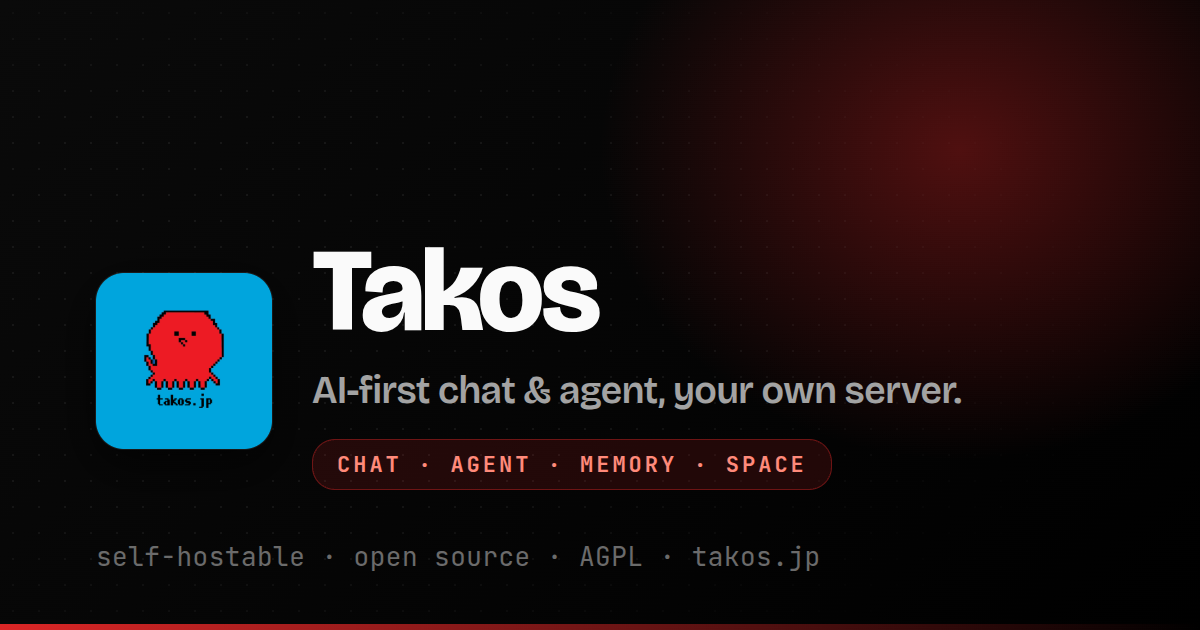
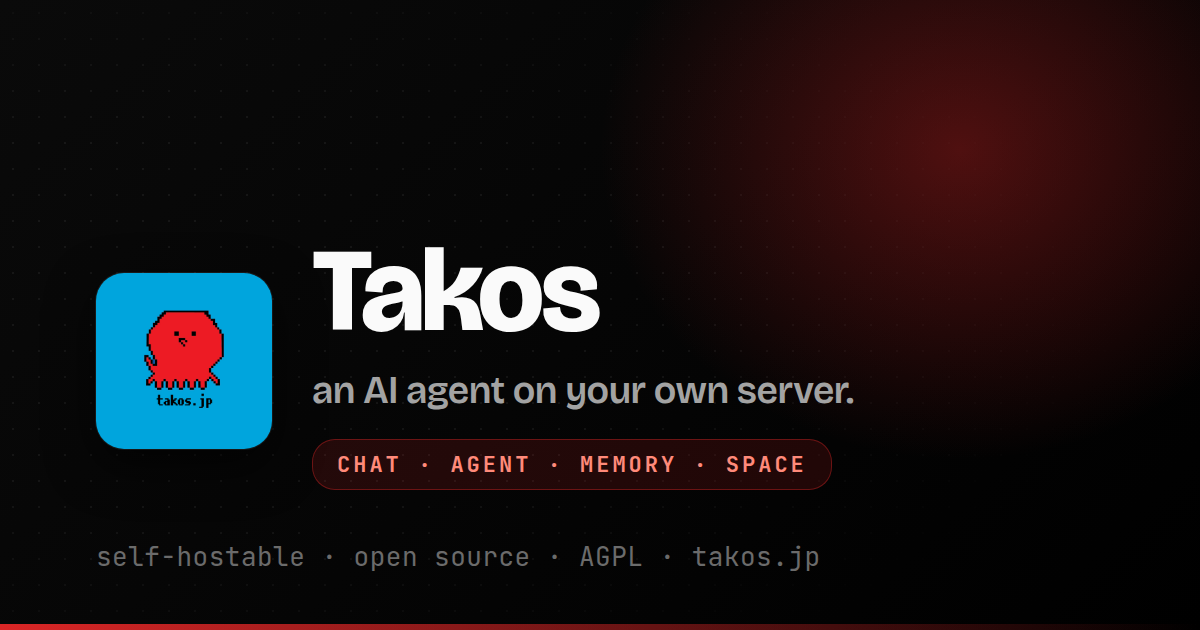
website: replace slogan titles with a factual descriptor, drop 'AI-first' from the og card

Changed region(s): [[0.2467, 0.6032, 0.8017, 0.6635]]

diff --git a/website/src/content/site.ts b/website/src/content/site.ts
@@ -142,10 +142,10 @@ export interface Strings {
 const ja: Strings = {
   htmlLang: "ja",
   meta: {
-    title: "Takos — 自分のサーバーで動く AI agent",
+    title: "Takos | an AI agent on your own server",
     description:
       "Takos は self-hostable な AI-first chat & agent product。chat / agent / memory / Git / Workspace / app launcher / MCP tools を core に持ち、office (docs / slide / sheet) / computer / social などの installable apps を選んで追加できる。OpenTofu module + Worker artifact で self-host できる AGPL の OSS。",
-    ogTitle: "Takos — AI-first chat & agent, your own server.",
+    ogTitle: "Takos | an AI agent on your own server",
     ogDescription:
       "Self-hostable な AI-first chat & agent。history も memory も自分のサーバーの中。OpenTofu module + Worker artifact で self-host。AGPL の OSS。",
   },
@@ -160,7 +160,7 @@ const ja: Strings = {
     closeMenu: "メニューを閉じる",
   },
   hero: {
-    title: [{ t: "自分のサーバーの" }, { t: "AI agent", grad: true }],
+    title: [{ t: "AI agent," }, { t: "on your server", grad: true }],
     lede: [
       {
         t: "chat で頼むと agent が tool を呼んで仕事を進め、成果とやり取りが memory に残る。その全部を、",
@@ -364,10 +364,10 @@ const ja: Strings = {
 const en: Strings = {
   htmlLang: "en",
   meta: {
-    title: "Takos — an AI agent on your own server.",
+    title: "Takos | an AI agent on your own server",
     description:
       "Takos is a self-hostable, AI-first chat & agent product. Its core is chat / agent / memory / Workspace, and installable apps like office (docs / slide / sheet), computer, and social can be added when you need them. It runs on Takosumi, so you can install it on your own substrate — the current supported adapter is Cloudflare — and your history and memory are stored on your own server. Open source under AGPL.",
-    ogTitle: "Takos — AI-first chat & agent, your own server.",
+    ogTitle: "Takos | an AI agent on your own server",
     ogDescription:
       "A self-hostable AI chat & agent. Your history and memory are stored on your own server. One-click install on Takosumi, or install from a Git source on your own substrate. Open source, AGPL.",
   },

diff --git a/website/src/components/Seo.tsx b/website/src/components/Seo.tsx
@@ -32,7 +32,7 @@ export default function Seo(props: { locale: Locale }): JSX.Element {
       <Meta property='og:locale' content={isJa ? 'ja_JP' : 'en_US'} />
       <Meta property='og:locale:alternate' content={isJa ? 'en_US' : 'ja_JP'} />
       <Meta property='og:image' content={OG_IMAGE} />
-      <Meta property='og:image:alt' content='Takos — AI-first chat & agent, your own server.' />
+      <Meta property='og:image:alt' content='Takos | an AI agent on your own server' />
 
       <Meta name='twitter:card' content='summary_large_image' />
       <Meta name='twitter:title' content={m.ogTitle} />

diff --git a/website/scripts/og-template.html b/website/scripts/og-template.html
@@ -113,7 +113,7 @@
         <img class="mark" src="../public/logo.png" alt="" />
         <div class="col">
           <h1>Takos</h1>
-          <div class="tagline">AI-first chat &amp; agent, your own server.</div>
+          <div class="tagline">an AI agent on your own server.</div>
           <div class="chip">CHAT · AGENT · MEMORY · SPACE</div>
         </div>
       </div>

diff --git a/website/src/app.tsx b/website/src/app.tsx
@@ -12,7 +12,7 @@ export default function App() {
     <Router
       root={(props) => (
         <MetaProvider>
-          <Title>Takos — AI-first chat & agent, your own server.</Title>
+          <Title>Takos | an AI agent on your own server</Title>
           <Suspense>{props.children}</Suspense>
         </MetaProvider>
       )}
